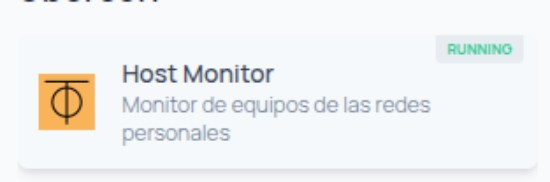
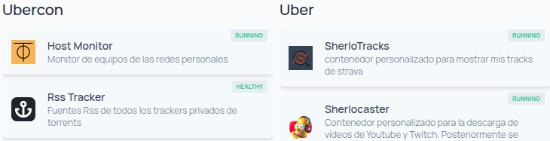
Update

diff --git a/public/homepage-mostrando-contenedores-remotos/index.html b/public/homepage-mostrando-contenedores-remotos/index.html
@@ -154,9 +154,51 @@
 </span></span><span style="display:flex;"><span>        <span style="color:#f92672">server</span>: <span style="color:#ae81ff">vps-local</span>
 </span></span></code></pre></div><p>y con esto conseguimos un resultado en nuestra página como este:</p>
 <p><img src="/images/20260609_homepage_mostrando_contenedores_remotos_01.jpg" alt="image-01"></p>
+<p>Para los contenedores que corren en el mismo host que <a href="https://gethomepage.dev">homepage</a> esta solución es perfecta pero para contenedores que corren en host remotos vamos a necesitar un pequeño contenedor que va a ser el intermediario y encargado de enviar la info del socket de docker de un host a otro. lo montaremos con este docker compose:</p>
+<div class="highlight"><pre tabindex="0" style="color:#f8f8f2;background-color:#272822;-moz-tab-size:4;-o-tab-size:4;tab-size:4;"><code class="language-yaml" data-lang="yaml"><span style="display:flex;"><span><span style="color:#f92672">services</span>:
+</span></span><span style="display:flex;"><span>  <span style="color:#f92672">docker-socket-proxy</span>:
+</span></span><span style="display:flex;"><span>    <span style="color:#f92672">image</span>: <span style="color:#ae81ff">tecnativa/docker-socket-proxy:latest</span>
+</span></span><span style="display:flex;"><span>    <span style="color:#f92672">container_name</span>: <span style="color:#ae81ff">docker-socket-proxy</span>
+</span></span><span style="display:flex;"><span>    <span style="color:#f92672">restart</span>: <span style="color:#ae81ff">unless-stopped</span>
+</span></span><span style="display:flex;"><span>    <span style="color:#f92672">volumes</span>:
+</span></span><span style="display:flex;"><span>      - <span style="color:#ae81ff">/var/run/docker.sock:/var/run/docker.sock:ro</span> <span style="color:#75715e"># Lee el socket local en modo lectura</span>
+</span></span><span style="display:flex;"><span>    <span style="color:#f92672">ports</span>:
+</span></span><span style="display:flex;"><span>      - <span style="color:#e6db74">&#34;192.168.191.211:2375:2375&#34;</span>
+</span></span><span style="display:flex;"><span>    <span style="color:#f92672">environment</span>:
+</span></span><span style="display:flex;"><span>      - <span style="color:#ae81ff">CONTAINERS=1</span>
+</span></span><span style="display:flex;"><span>      - <span style="color:#ae81ff">SERVICES=1</span>
+</span></span><span style="display:flex;"><span>      - <span style="color:#ae81ff">NETWORKS=0</span>
+</span></span><span style="display:flex;"><span>      - <span style="color:#ae81ff">VOLUMES=0</span>
+</span></span><span style="display:flex;"><span>      - <span style="color:#ae81ff">IMAGES=0</span>
+</span></span><span style="display:flex;"><span>      - <span style="color:#ae81ff">POST=0</span>
+</span></span></code></pre></div><blockquote>
+<p>La conexión entre ambos host es posible de una forma muy sencilla ya que ambos están dentro de la misma red de zerotier (IP 192.168.191.xxx)</p>
+</blockquote>
+<p>El siguiente paso es añadir un nuevo host en el archivo <code>docker.yaml</code> de la carpeta <code>data</code>del contenedor <a href="https://gethomepage.dev">homepage</a>. El mío ha quedado así usando la ip de la red de zerotier del host remoto:</p>
+<div class="highlight"><pre tabindex="0" style="color:#f8f8f2;background-color:#272822;-moz-tab-size:4;-o-tab-size:4;tab-size:4;"><code class="language-yaml" data-lang="yaml"><span style="display:flex;"><span><span style="color:#f92672">vps-local</span>:
+</span></span><span style="display:flex;"><span>  <span style="color:#f92672">socket</span>: <span style="color:#ae81ff">/var/run/docker.sock</span>
+</span></span><span style="display:flex;"><span>
+</span></span><span style="display:flex;"><span><span style="color:#f92672">uberz</span>:
+</span></span><span style="display:flex;"><span>  <span style="color:#f92672">host</span>: <span style="color:#ae81ff">192.168.191.211</span>
+</span></span><span style="display:flex;"><span>  <span style="color:#f92672">port</span>: <span style="color:#ae81ff">2375</span>
+</span></span></code></pre></div><p>Ahora ya podemos añadir la parte correspondiente dentro de los servicios en el archivo <code>services.yaml</code>para quedar algo así:</p>
+<div class="highlight"><pre tabindex="0" style="color:#f8f8f2;background-color:#272822;-moz-tab-size:4;-o-tab-size:4;tab-size:4;"><code class="language-yaml" data-lang="yaml"><span style="display:flex;"><span>- <span style="color:#f92672">Uber</span>:
+</span></span><span style="display:flex;"><span>    - <span style="color:#f92672">SherloTracks</span>:
+</span></span><span style="display:flex;"><span>        <span style="color:#f92672">icon</span>: <span style="color:#ae81ff">/icons/sherlotracks.png</span>
+</span></span><span style="display:flex;"><span>        <span style="color:#f92672">href</span>: <span style="color:#ae81ff">http://sherlotracks.zgz.sherblog.es</span>
+</span></span><span style="display:flex;"><span>        <span style="color:#f92672">description</span>: <span style="color:#ae81ff">contenedor personalizado para mostrar mis tracks de strava</span>
+</span></span><span style="display:flex;"><span>        <span style="color:#f92672">container</span>: <span style="color:#ae81ff">sherlotracks-front</span>
+</span></span><span style="display:flex;"><span>        <span style="color:#f92672">server</span>: <span style="color:#ae81ff">uberz</span>
+</span></span><span style="display:flex;"><span>    - <span style="color:#f92672">Sherlocaster</span>:
+</span></span><span style="display:flex;"><span>        <span style="color:#f92672">icon</span>: <span style="color:#ae81ff">/icons/sherlocaster.png</span>
+</span></span><span style="display:flex;"><span>        <span style="color:#f92672">href</span>: <span style="color:#ae81ff">http://192.168.10.211:8000</span>
+</span></span><span style="display:flex;"><span>        <span style="color:#f92672">description</span>: <span style="color:#ae81ff">Contenedor personalizado para la descarga de vídeos de Youtube y Twitch. Posteriormente se convierten en un podcast.</span>
+</span></span><span style="display:flex;"><span>        <span style="color:#f92672">container</span>: <span style="color:#ae81ff">sherlocaster-web</span>
+</span></span><span style="display:flex;"><span>        <span style="color:#f92672">server</span>: <span style="color:#ae81ff">uberz</span>
+</span></span></code></pre></div><p>Así de sencillo, sin más.</p>
 <h3 id="enlaces-de-interés">Enlaces de interés</h3>
 <ul>
-<li><a href="www.sherblog.es">enlace</a></li>
+<li><a href="https://github.com/tecnativa/docker-socket-proxy">docker-socket-proxy</a></li>
 </ul>
 		</div>
 		<footer class="post__footer">

diff --git a/content/post/20260609_homepage_mostrando_contenedores_remotos.md b/content/post/20260609_homepage_mostrando_contenedores_remotos.md
@@ -53,8 +53,60 @@ y con esto conseguimos un resultado en nuestra página como este:
 
 ![image-01]
 
+Para los contenedores que corren en el mismo host que [homepage] esta solución es perfecta pero para contenedores que corren en host remotos vamos a necesitar un pequeño contenedor que va a ser el intermediario y encargado de enviar la info del socket de docker de un host a otro. lo montaremos con este docker compose:
+
+``` yaml
+services:
+  docker-socket-proxy:
+    image: tecnativa/docker-socket-proxy:latest
+    container_name: docker-socket-proxy
+    restart: unless-stopped
+    volumes:
+      - /var/run/docker.sock:/var/run/docker.sock:ro # Lee el socket local en modo lectura
+    ports:
+      - "192.168.191.211:2375:2375"
+    environment:
+      - CONTAINERS=1
+      - SERVICES=1
+      - NETWORKS=0
+      - VOLUMES=0
+      - IMAGES=0
+      - POST=0
+```
+> La conexión entre ambos host es posible de una forma muy sencilla ya que ambos están dentro de la misma red de zerotier (IP 192.168.191.xxx)
+
+El siguiente paso es añadir un nuevo host en el archivo `docker.yaml` de la carpeta `data`del contenedor [homepage]. El mío ha quedado así usando la ip de la red de zerotier del host remoto:
+
+``` yaml
+vps-local:
+  socket: /var/run/docker.sock
+
+uberz:
+  host: 192.168.191.211
+  port: 2375
+```
+Ahora ya podemos añadir la parte correspondiente dentro de los servicios en el archivo `services.yaml`para quedar algo así:
+
+``` yaml
+- Uber:
+    - SherloTracks:
+        icon: /icons/sherlotracks.png
+        href: http://sherlotracks.zgz.sherblog.es
+        description: contenedor personalizado para mostrar mis tracks de strava
+        container: sherlotracks-front
+        server: uberz
+    - Sherlocaster:
+        icon: /icons/sherlocaster.png
+        href: http://192.168.10.211:8000
+        description: Contenedor personalizado para la descarga de vídeos de Youtube y Twitch. Posteriormente se convierten en un podcast.
+        container: sherlocaster-web
+        server: uberz
+```
+
+Así de sencillo, sin más.
+
 ### Enlaces de interés
-- [enlace](www.sherblog.es)
+- [docker-socket-proxy](https://github.com/tecnativa/docker-socket-proxy)
 
 [homepage]: https://gethomepage.dev
 [vps]: http://homepage.vps.sherblog.es